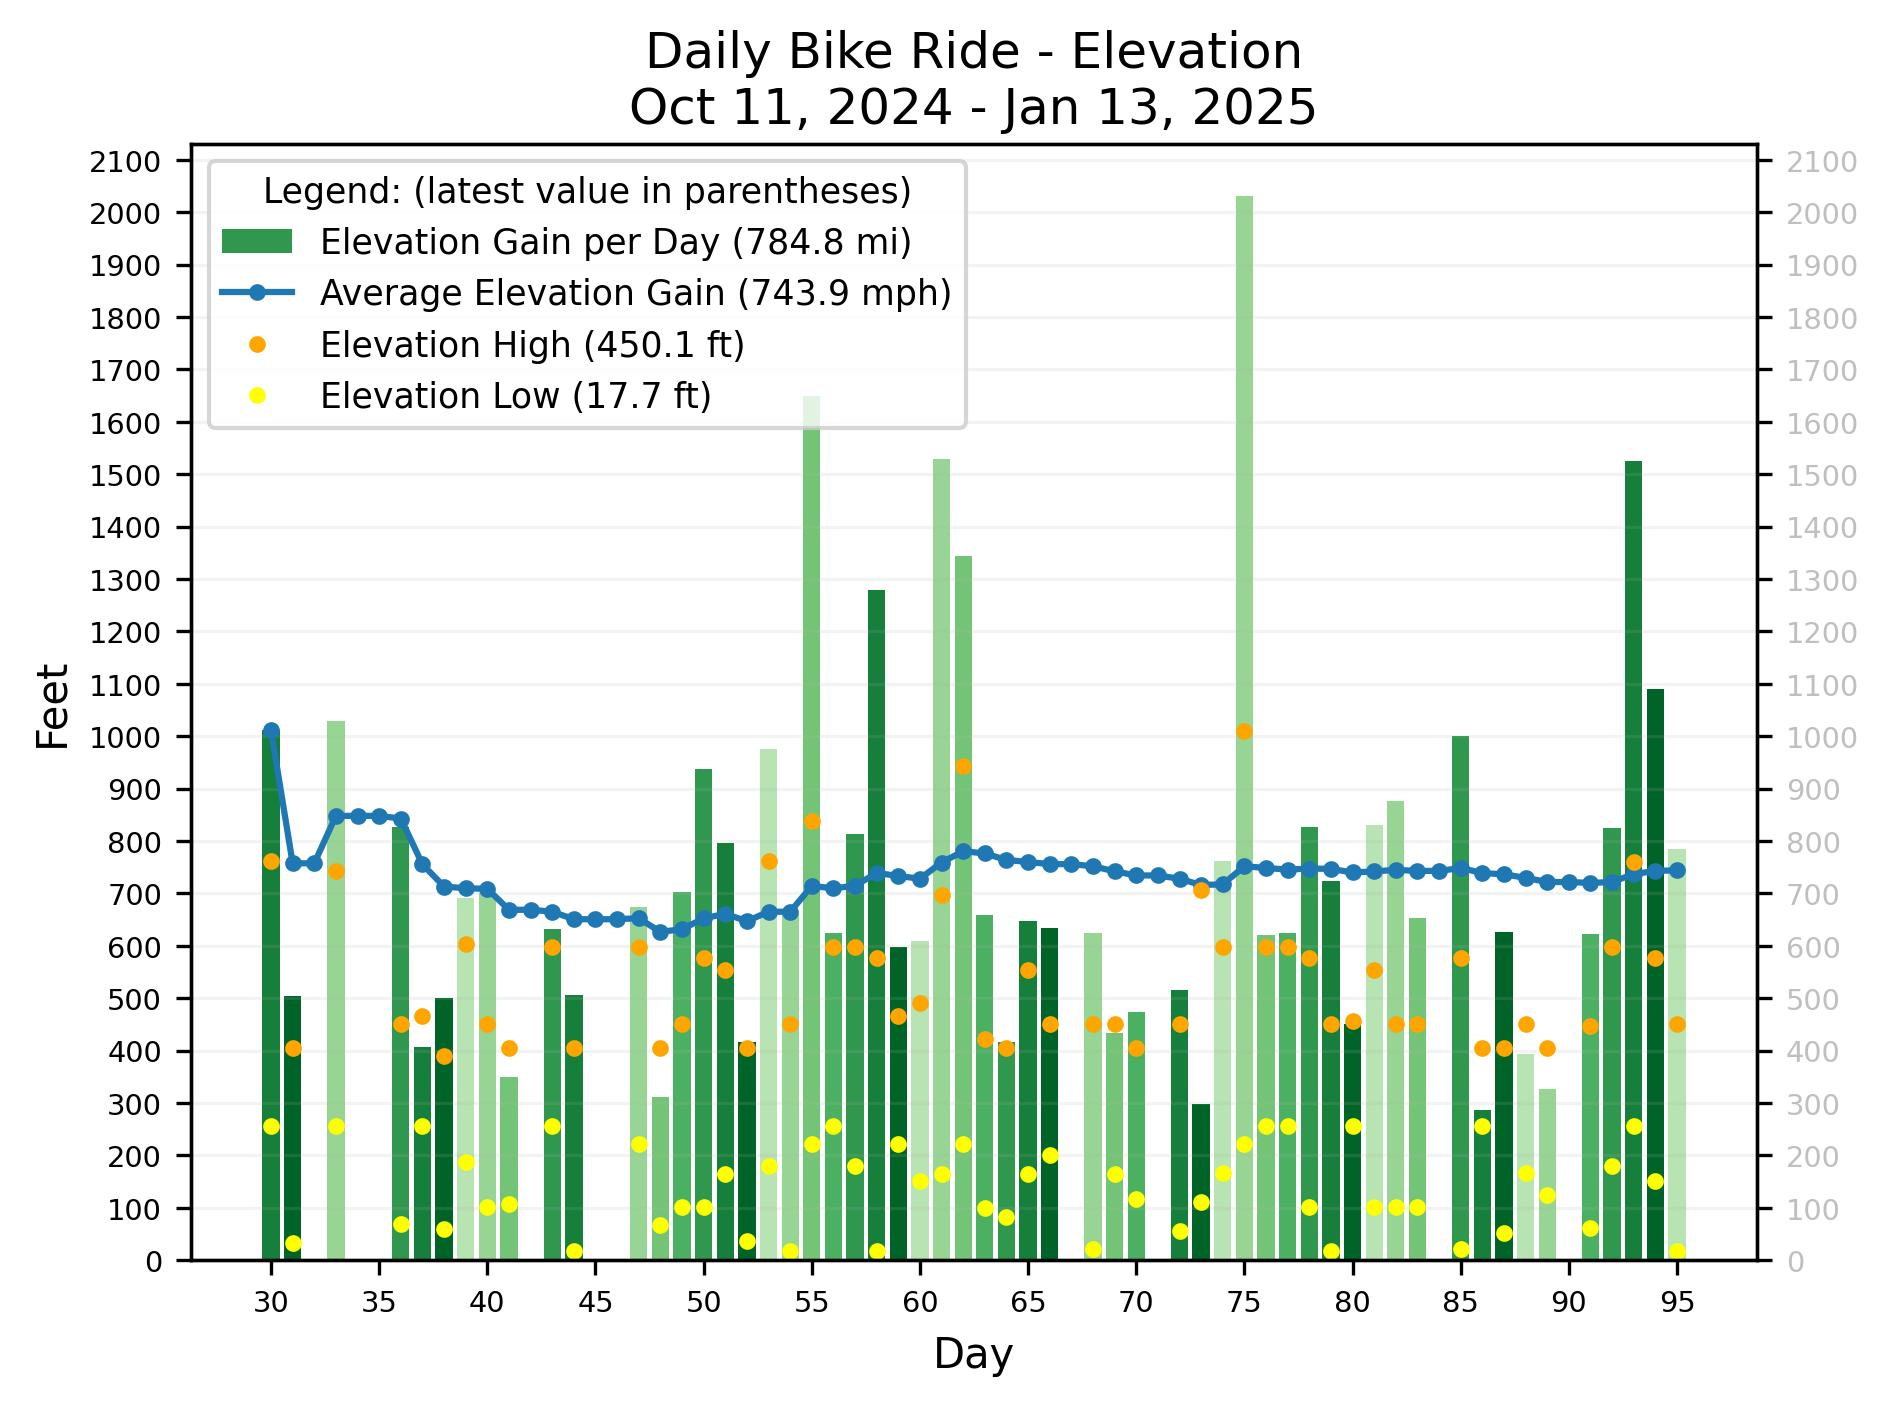
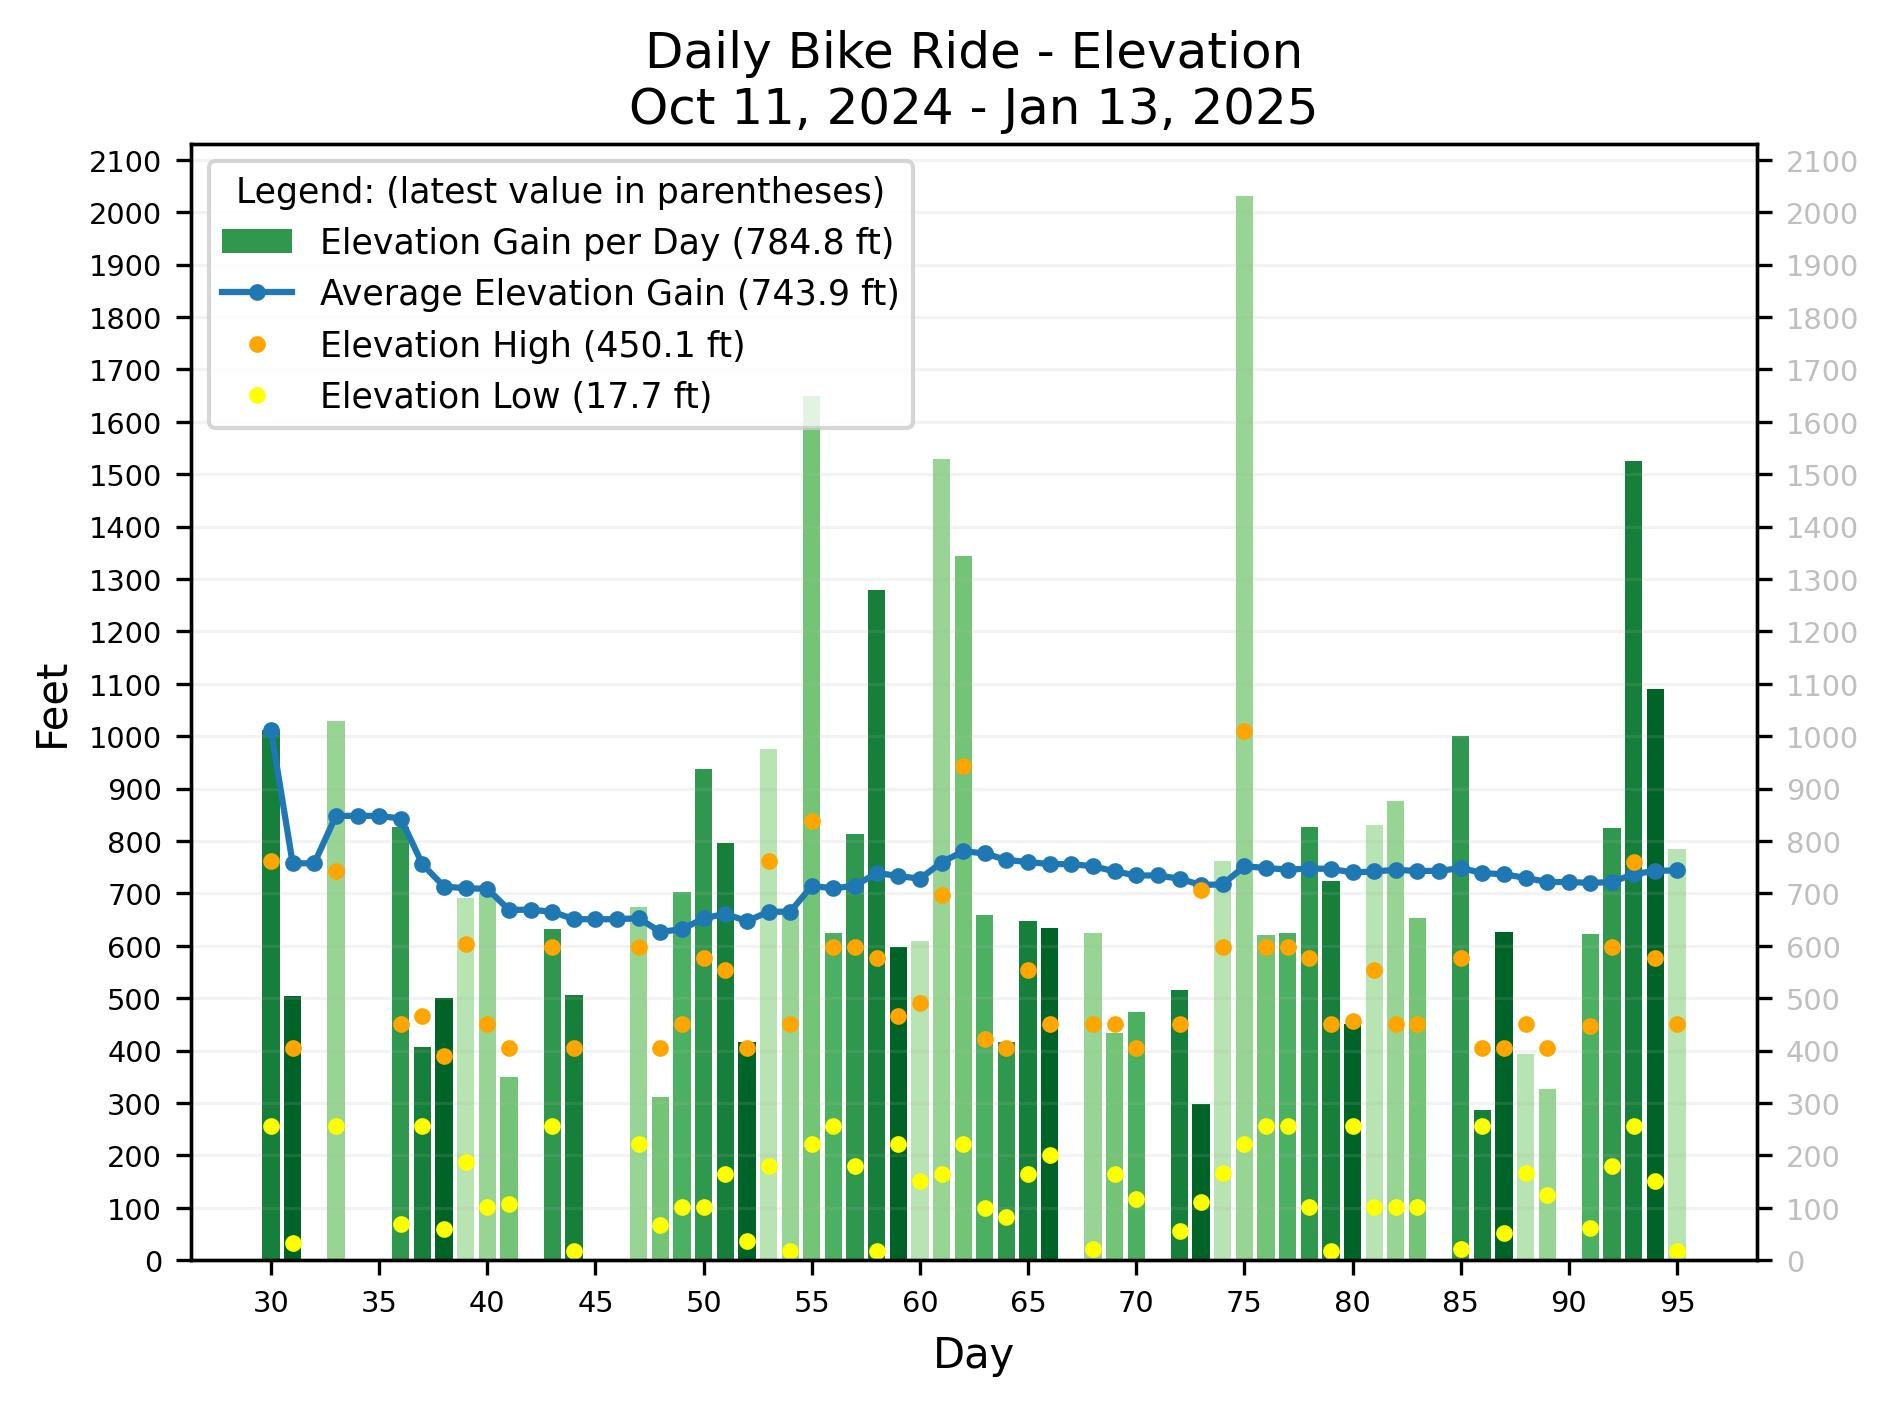
fix typo: mi -> mph

Changed region(s): [[0.1249, 0.1223, 0.531, 0.2447], [0.4685, 0.2752, 0.4997, 0.3058]]

diff --git a/src/biking/graph/elevation.py b/src/biking/graph/elevation.py
@@ -34,11 +34,11 @@ class ElevationGraph(Graph):
         colors = self.get_colors()
         bar = ax1.bar(x, y, color=colors)
         self.handles.append(bar)
-        self.labels.append(f"Elevation Gain per Day ({y[-1]:0.1f} mi)")
+        self.labels.append(f"Elevation Gain per Day ({y[-1]:0.1f} ft)")
 
         line, = ax1.plot(x, avg_y, color="tab:blue", marker="o", markersize=3)
         self.handles.append(line)
-        self.labels.append(f"Average Elevation Gain ({avg_y[-1]:0.1f} mph)")
+        self.labels.append(f"Average Elevation Gain ({avg_y[-1]:0.1f} ft)")
 
         y_low = self.stats["data"]["elevation_low_per_day"]
         y_high = self.stats["data"]["elevation_high_per_day"]
